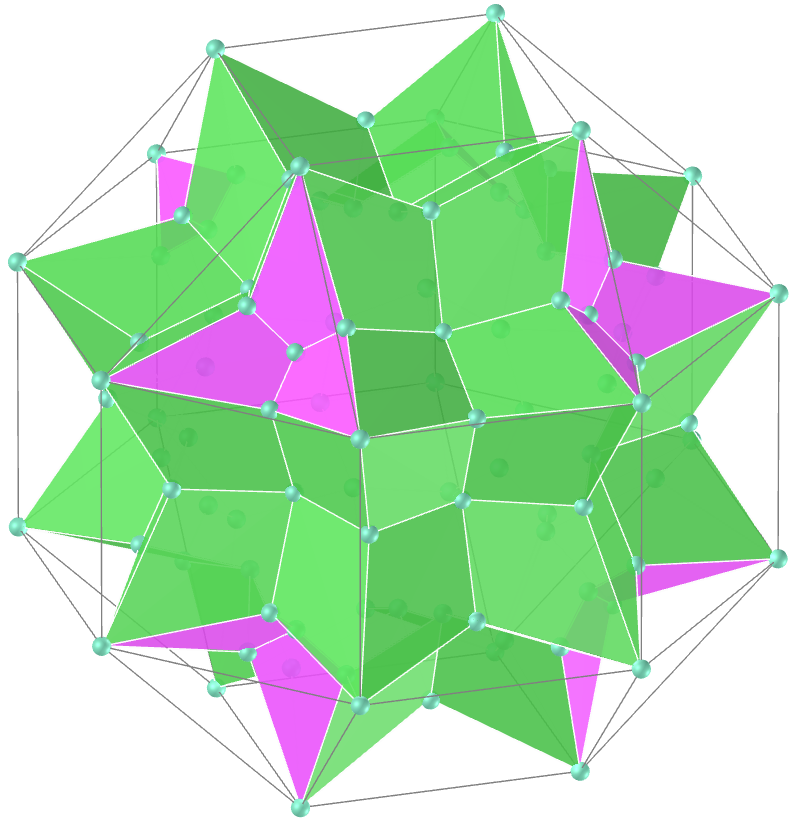
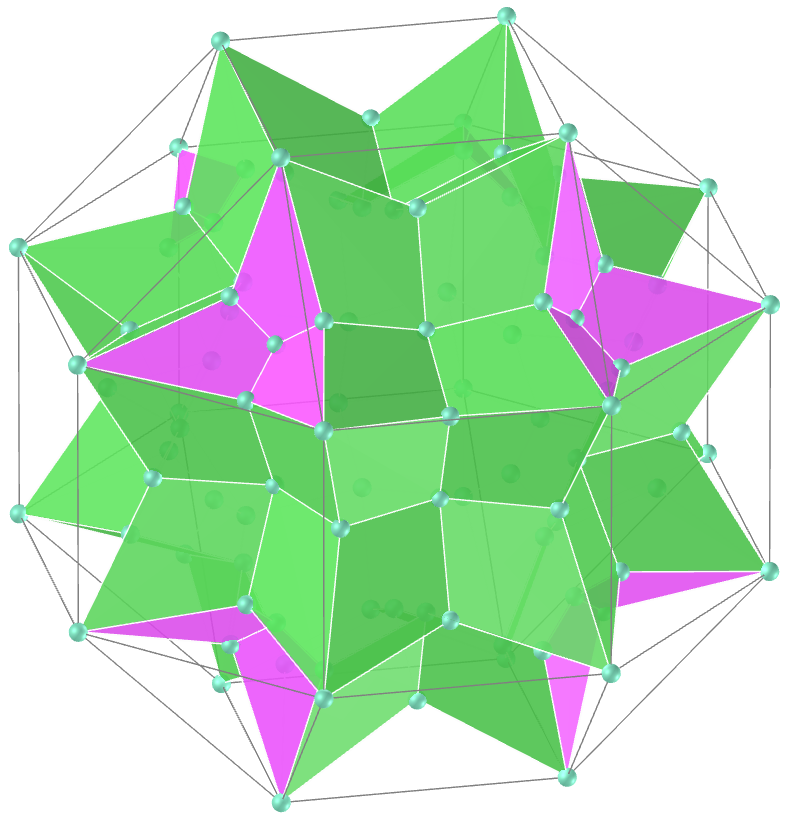
update

diff --git a/kites/vr/Snub_Cube.htm b/kites/vr/Snub_Cube.htm
@@ -57,160 +57,160 @@
 			<a-sphere mixin='esfera' position='0.098648256 -0.33372504 0.795259344'></a-sphere>
 			<a-sphere mixin='esfera' position='0.33372504 0.098648256 0.795259344'></a-sphere>
 			<a-sphere mixin='esfera' position='-0.098648256 0.33372504 0.795259344'></a-sphere>
-			<a-sphere mixin='esfera' position='0 0 0.611412751'></a-sphere>
+			<a-sphere mixin='esfera' position='0 0 0.6098614601'></a-sphere>
 			<a-sphere mixin='esfera' position='0.098648256 -0.33372504 0.795259344'></a-sphere>
 			<a-sphere mixin='esfera' position='0 -0.61381632 0.61381632'></a-sphere>
 			<a-sphere mixin='esfera' position='0.33372504 -0.515168064 0.61381632'></a-sphere>
-			<a-sphere mixin='esfera' position='0 -0.440353996 0.608998995'></a-sphere>
+			<a-sphere mixin='esfera' position='0 -0.4427086634 0.608998995'></a-sphere>
 			<a-sphere mixin='esfera' position='-0.33372504 0.098648256 -0.795259344'></a-sphere>
 			<a-sphere mixin='esfera' position='0.098648256 0.33372504 -0.795259344'></a-sphere>
 			<a-sphere mixin='esfera' position='0.33372504 -0.098648256 -0.795259344'></a-sphere>
 			<a-sphere mixin='esfera' position='-0.098648256 -0.33372504 -0.795259344'></a-sphere>
-			<a-sphere mixin='esfera' position='0 0 -0.611412751'></a-sphere>
+			<a-sphere mixin='esfera' position='0 0 -0.6098614601'></a-sphere>
 			<a-sphere mixin='esfera' position='0.795259344 -0.33372504 -0.098648256'></a-sphere>
 			<a-sphere mixin='esfera' position='0.795259344 0.098648256 -0.33372504'></a-sphere>
 			<a-sphere mixin='esfera' position='0.795259344 0.33372504 0.098648256'></a-sphere>
 			<a-sphere mixin='esfera' position='0.795259344 -0.098648256 0.33372504'></a-sphere>
-			<a-sphere mixin='esfera' position='0.611412751 0 0'></a-sphere>
+			<a-sphere mixin='esfera' position='0.6098614601 0 0'></a-sphere>
 			<a-sphere mixin='esfera' position='-0.795259344 -0.33372504 0.098648256'></a-sphere>
 			<a-sphere mixin='esfera' position='-0.795259344 0.098648256 0.33372504'></a-sphere>
 			<a-sphere mixin='esfera' position='-0.795259344 0.33372504 -0.098648256'></a-sphere>
 			<a-sphere mixin='esfera' position='-0.795259344 -0.098648256 -0.33372504'></a-sphere>
-			<a-sphere mixin='esfera' position='-0.611412751 0 0'></a-sphere>
+			<a-sphere mixin='esfera' position='-0.6098614601 0 0'></a-sphere>
 			<a-sphere mixin='esfera' position='-0.098648256 -0.795259344 0.33372504'></a-sphere>
 			<a-sphere mixin='esfera' position='-0.33372504 -0.795259344 -0.098648256'></a-sphere>
 			<a-sphere mixin='esfera' position='0.098648256 -0.795259344 -0.33372504'></a-sphere>
 			<a-sphere mixin='esfera' position='0.33372504 -0.795259344 0.098648256'></a-sphere>
-			<a-sphere mixin='esfera' position='0 -0.611412751 0'></a-sphere>
+			<a-sphere mixin='esfera' position='0 -0.6098614601 0'></a-sphere>
 			<a-sphere mixin='esfera' position='-0.098648256 0.795259344 -0.33372504'></a-sphere>
 			<a-sphere mixin='esfera' position='-0.33372504 0.795259344 0.098648256'></a-sphere>
 			<a-sphere mixin='esfera' position='0.098648256 0.795259344 0.33372504'></a-sphere>
 			<a-sphere mixin='esfera' position='0.33372504 0.795259344 -0.098648256'></a-sphere>
-			<a-sphere mixin='esfera' position='0 0.611412751 0'></a-sphere>
+			<a-sphere mixin='esfera' position='0 0.6098614601 0'></a-sphere>
 			<a-sphere mixin='esfera' position='0.098648256 0.33372504 -0.795259344'></a-sphere>
 			<a-sphere mixin='esfera' position='0 0.61381632 -0.61381632'></a-sphere>
 			<a-sphere mixin='esfera' position='0.33372504 0.515168064 -0.61381632'></a-sphere>
-			<a-sphere mixin='esfera' position='0.130167555 0.440353996 -0.608998995'></a-sphere>
+			<a-sphere mixin='esfera' position='0.130167555 0.4427086634 -0.608998995'></a-sphere>
 			<a-sphere mixin='esfera' position='-0.098648256 0.33372504 0.795259344'></a-sphere>
 			<a-sphere mixin='esfera' position='0 0.61381632 0.61381632'></a-sphere>
 			<a-sphere mixin='esfera' position='-0.33372504 0.515168064 0.61381632'></a-sphere>
-			<a-sphere mixin='esfera' position='-0.130167555 0.440353996 0.608998995'></a-sphere>
+			<a-sphere mixin='esfera' position='-0.130167555 0.4427086634 0.608998995'></a-sphere>
 			<a-sphere mixin='esfera' position='-0.098648256 -0.33372504 -0.795259344'></a-sphere>
 			<a-sphere mixin='esfera' position='0 -0.61381632 -0.61381632'></a-sphere>
 			<a-sphere mixin='esfera' position='-0.33372504 -0.515168064 -0.61381632'></a-sphere>
-			<a-sphere mixin='esfera' position='-0.130167555 -0.440353996 -0.608998995'></a-sphere>
+			<a-sphere mixin='esfera' position='-0.130167555 -0.4427086634 -0.608998995'></a-sphere>
 			<a-sphere mixin='esfera' position='0.795259344 -0.098648256 0.33372504'></a-sphere>
 			<a-sphere mixin='esfera' position='0.61381632 0 0.61381632'></a-sphere>
 			<a-sphere mixin='esfera' position='0.61381632 -0.33372504 0.515168064'></a-sphere>
-			<a-sphere mixin='esfera' position='0.608998995 -0.130167555 0.440353996'></a-sphere>
+			<a-sphere mixin='esfera' position='0.608998995 -0.130167555 0.4427086634'></a-sphere>
 			<a-sphere mixin='esfera' position='0.795259344 0.098648256 -0.33372504'></a-sphere>
 			<a-sphere mixin='esfera' position='0.61381632 0 -0.61381632'></a-sphere>
 			<a-sphere mixin='esfera' position='0.61381632 0.33372504 -0.515168064'></a-sphere>
-			<a-sphere mixin='esfera' position='0.608998995 0.130167555 -0.440353996'></a-sphere>
+			<a-sphere mixin='esfera' position='0.608998995 0.130167555 -0.4427086634'></a-sphere>
 			<a-sphere mixin='esfera' position='-0.795259344 0.098648256 0.33372504'></a-sphere>
 			<a-sphere mixin='esfera' position='-0.61381632 0 0.61381632'></a-sphere>
 			<a-sphere mixin='esfera' position='-0.61381632 0.33372504 0.515168064'></a-sphere>
-			<a-sphere mixin='esfera' position='-0.608998995 0.130167555 0.440353996'></a-sphere>
+			<a-sphere mixin='esfera' position='-0.608998995 0.130167555 0.4427086634'></a-sphere>
 			<a-sphere mixin='esfera' position='-0.795259344 -0.098648256 -0.33372504'></a-sphere>
 			<a-sphere mixin='esfera' position='-0.61381632 0 -0.61381632'></a-sphere>
 			<a-sphere mixin='esfera' position='-0.61381632 -0.33372504 -0.515168064'></a-sphere>
-			<a-sphere mixin='esfera' position='-0.608998995 -0.130167555 -0.440353996'></a-sphere>
+			<a-sphere mixin='esfera' position='-0.608998995 -0.130167555 -0.4427086634'></a-sphere>
 			<a-sphere mixin='esfera' position='0.33372504 -0.795259344 0.098648256'></a-sphere>
 			<a-sphere mixin='esfera' position='0.61381632 -0.61381632 0'></a-sphere>
 			<a-sphere mixin='esfera' position='0.515168064 -0.61381632 0.33372504'></a-sphere>
-			<a-sphere mixin='esfera' position='0.440353996 -0.608998995 0.130167555'></a-sphere>
+			<a-sphere mixin='esfera' position='0.4427086634 -0.608998995 0.130167555'></a-sphere>
 			<a-sphere mixin='esfera' position='0.33372504 0.795259344 -0.098648256'></a-sphere>
 			<a-sphere mixin='esfera' position='0.61381632 0.61381632 0'></a-sphere>
 			<a-sphere mixin='esfera' position='0.515168064 0.61381632 -0.33372504'></a-sphere>
-			<a-sphere mixin='esfera' position='0.440353996 0.608998995 -0.130167555'></a-sphere>
+			<a-sphere mixin='esfera' position='0.4427086634 0.608998995 -0.130167555'></a-sphere>
 			<a-sphere mixin='esfera' position='-0.33372504 0.795259344 0.098648256'></a-sphere>
 			<a-sphere mixin='esfera' position='-0.61381632 0.61381632 0'></a-sphere>
 			<a-sphere mixin='esfera' position='-0.515168064 0.61381632 0.33372504'></a-sphere>
-			<a-sphere mixin='esfera' position='-0.440353996 0.608998995 0.130167555'></a-sphere>
+			<a-sphere mixin='esfera' position='-0.4427086634 0.608998995 0.130167555'></a-sphere>
 			<a-sphere mixin='esfera' position='-0.33372504 -0.795259344 -0.098648256'></a-sphere>
 			<a-sphere mixin='esfera' position='-0.61381632 -0.61381632 0'></a-sphere>
 			<a-sphere mixin='esfera' position='-0.515168064 -0.61381632 -0.33372504'></a-sphere>
-			<a-sphere mixin='esfera' position='-0.440353996 -0.608998995 -0.130167555'></a-sphere>
+			<a-sphere mixin='esfera' position='-0.4427086634 -0.608998995 -0.130167555'></a-sphere>
 			<a-sphere mixin='esfera' position='0.33372504 0.098648256 0.795259344'></a-sphere>
 			<a-sphere mixin='esfera' position='0.61381632 0 0.61381632'></a-sphere>
 			<a-sphere mixin='esfera' position='0.515168064 0.33372504 0.61381632'></a-sphere>
-			<a-sphere mixin='esfera' position='0.440353996 0.130167555 0.608998995'></a-sphere>
+			<a-sphere mixin='esfera' position='0.4427086634 0.130167555 0.608998995'></a-sphere>
 			<a-sphere mixin='esfera' position='0.33372504 -0.098648256 -0.795259344'></a-sphere>
 			<a-sphere mixin='esfera' position='0.61381632 0 -0.61381632'></a-sphere>
 			<a-sphere mixin='esfera' position='0.515168064 -0.33372504 -0.61381632'></a-sphere>
-			<a-sphere mixin='esfera' position='0.440353996 -0.130167555 -0.608998995'></a-sphere>
+			<a-sphere mixin='esfera' position='0.4427086634 -0.130167555 -0.608998995'></a-sphere>
 			<a-sphere mixin='esfera' position='-0.33372504 -0.098648256 0.795259344'></a-sphere>
 			<a-sphere mixin='esfera' position='-0.61381632 0 0.61381632'></a-sphere>
 			<a-sphere mixin='esfera' position='-0.515168064 -0.33372504 0.61381632'></a-sphere>
-			<a-sphere mixin='esfera' position='-0.440353996 -0.130167555 0.608998995'></a-sphere>
+			<a-sphere mixin='esfera' position='-0.4427086634 -0.130167555 0.608998995'></a-sphere>
 			<a-sphere mixin='esfera' position='-0.33372504 0.098648256 -0.795259344'></a-sphere>
 			<a-sphere mixin='esfera' position='-0.61381632 0 -0.61381632'></a-sphere>
 			<a-sphere mixin='esfera' position='-0.515168064 0.33372504 -0.61381632'></a-sphere>
-			<a-sphere mixin='esfera' position='-0.440353996 0.130167555 -0.608998995'></a-sphere>
+			<a-sphere mixin='esfera' position='-0.4427086634 0.130167555 -0.608998995'></a-sphere>
 			<a-sphere mixin='esfera' position='0.795259344 0.33372504 0.098648256'></a-sphere>
 			<a-sphere mixin='esfera' position='0.61381632 0.61381632 0'></a-sphere>
 			<a-sphere mixin='esfera' position='0.61381632 0.515168064 0.33372504'></a-sphere>
-			<a-sphere mixin='esfera' position='0.608998995 0.440353996 0.130167555'></a-sphere>
+			<a-sphere mixin='esfera' position='0.608998995 0.4427086634 0.130167555'></a-sphere>
 			<a-sphere mixin='esfera' position='0.795259344 -0.33372504 -0.098648256'></a-sphere>
 			<a-sphere mixin='esfera' position='0.61381632 -0.61381632 0'></a-sphere>
 			<a-sphere mixin='esfera' position='0.61381632 -0.515168064 -0.33372504'></a-sphere>
-			<a-sphere mixin='esfera' position='0.608998995 -0.440353996 -0.130167555'></a-sphere>
+			<a-sphere mixin='esfera' position='0.608998995 -0.4427086634 -0.130167555'></a-sphere>
 			<a-sphere mixin='esfera' position='-0.795259344 -0.33372504 0.098648256'></a-sphere>
 			<a-sphere mixin='esfera' position='-0.61381632 -0.61381632 0'></a-sphere>
 			<a-sphere mixin='esfera' position='-0.61381632 -0.515168064 0.33372504'></a-sphere>
-			<a-sphere mixin='esfera' position='-0.608998995 -0.440353996 0.130167555'></a-sphere>
+			<a-sphere mixin='esfera' position='-0.608998995 -0.4427086634 0.130167555'></a-sphere>
 			<a-sphere mixin='esfera' position='-0.795259344 0.33372504 -0.098648256'></a-sphere>
 			<a-sphere mixin='esfera' position='-0.61381632 0.61381632 0'></a-sphere>
 			<a-sphere mixin='esfera' position='-0.61381632 0.515168064 -0.33372504'></a-sphere>
-			<a-sphere mixin='esfera' position='-0.608998995 0.440353996 -0.130167555'></a-sphere>
+			<a-sphere mixin='esfera' position='-0.608998995 0.4427086634 -0.130167555'></a-sphere>
 			<a-sphere mixin='esfera' position='0.098648256 0.795259344 0.33372504'></a-sphere>
 			<a-sphere mixin='esfera' position='0 0.61381632 0.61381632'></a-sphere>
 			<a-sphere mixin='esfera' position='0.33372504 0.61381632 0.515168064'></a-sphere>
-			<a-sphere mixin='esfera' position='0.130167555 0.608998995 0.440353996'></a-sphere>
+			<a-sphere mixin='esfera' position='0.130167555 0.608998995 0.4427086634'></a-sphere>
 			<a-sphere mixin='esfera' position='0.098648256 -0.795259344 -0.33372504'></a-sphere>
 			<a-sphere mixin='esfera' position='0 -0.61381632 -0.61381632'></a-sphere>
 			<a-sphere mixin='esfera' position='0.33372504 -0.61381632 -0.515168064'></a-sphere>
-			<a-sphere mixin='esfera' position='0.130167555 -0.608998995 -0.440353996'></a-sphere>
+			<a-sphere mixin='esfera' position='0.130167555 -0.608998995 -0.4427086634'></a-sphere>
 			<a-sphere mixin='esfera' position='-0.098648256 -0.795259344 0.33372504'></a-sphere>
 			<a-sphere mixin='esfera' position='0 -0.61381632 0.61381632'></a-sphere>
 			<a-sphere mixin='esfera' position='-0.33372504 -0.61381632 0.515168064'></a-sphere>
-			<a-sphere mixin='esfera' position='-0.130167555 -0.608998995 0.440353996'></a-sphere>
+			<a-sphere mixin='esfera' position='-0.130167555 -0.608998995 0.4427086634'></a-sphere>
 			<a-sphere mixin='esfera' position='-0.098648256 0.795259344 -0.33372504'></a-sphere>
 			<a-sphere mixin='esfera' position='0 0.61381632 -0.61381632'></a-sphere>
 			<a-sphere mixin='esfera' position='-0.33372504 0.61381632 -0.515168064'></a-sphere>
-			<a-sphere mixin='esfera' position='-0.130167555 0.608998995 -0.440353996'></a-sphere>
+			<a-sphere mixin='esfera' position='-0.130167555 0.608998995 -0.4427086634'></a-sphere>
 			<a-sphere mixin='esfera' position='0.515168064 -0.61381632 0.33372504'></a-sphere>
 			<a-sphere mixin='esfera' position='0.61381632 -0.33372504 0.515168064'></a-sphere>
 			<a-sphere mixin='esfera' position='0.33372504 -0.515168064 0.61381632'></a-sphere>
-			<a-sphere mixin='esfera' position='0.440353996 -0.440353996 0.440353996'></a-sphere>
+			<a-sphere mixin='esfera' position='0.4427086634 -0.4427086634 0.4427086634'></a-sphere>
 			<a-sphere mixin='esfera' position='0.515168064 0.61381632 -0.33372504'></a-sphere>
 			<a-sphere mixin='esfera' position='0.61381632 0.33372504 -0.515168064'></a-sphere>
 			<a-sphere mixin='esfera' position='0.33372504 0.515168064 -0.61381632'></a-sphere>
-			<a-sphere mixin='esfera' position='0.440353996 0.440353996 -0.440353996'></a-sphere>
+			<a-sphere mixin='esfera' position='0.4427086634 0.4427086634 -0.4427086634'></a-sphere>
 			<a-sphere mixin='esfera' position='-0.515168064 0.61381632 0.33372504'></a-sphere>
 			<a-sphere mixin='esfera' position='-0.61381632 0.33372504 0.515168064'></a-sphere>
 			<a-sphere mixin='esfera' position='-0.33372504 0.515168064 0.61381632'></a-sphere>
-			<a-sphere mixin='esfera' position='-0.440353996 0.440353996 0.440353996'></a-sphere>
+			<a-sphere mixin='esfera' position='-0.4427086634 0.4427086634 0.4427086634'></a-sphere>
 			<a-sphere mixin='esfera' position='-0.515168064 -0.61381632 -0.33372504'></a-sphere>
 			<a-sphere mixin='esfera' position='-0.61381632 -0.33372504 -0.515168064'></a-sphere>
 			<a-sphere mixin='esfera' position='-0.33372504 -0.515168064 -0.61381632'></a-sphere>
-			<a-sphere mixin='esfera' position='-0.440353996 -0.440353996 -0.440353996'></a-sphere>
+			<a-sphere mixin='esfera' position='-0.4427086634 -0.4427086634 -0.4427086634'></a-sphere>
 			<a-sphere mixin='esfera' position='0.515168064 0.33372504 0.61381632'></a-sphere>
 			<a-sphere mixin='esfera' position='0.61381632 0.515168064 0.33372504'></a-sphere>
 			<a-sphere mixin='esfera' position='0.33372504 0.61381632 0.515168064'></a-sphere>
-			<a-sphere mixin='esfera' position='0.440353996 0.440353996 0.440353996'></a-sphere>
+			<a-sphere mixin='esfera' position='0.4427086634 0.4427086634 0.4427086634'></a-sphere>
 			<a-sphere mixin='esfera' position='0.515168064 -0.33372504 -0.61381632'></a-sphere>
 			<a-sphere mixin='esfera' position='0.61381632 -0.515168064 -0.33372504'></a-sphere>
 			<a-sphere mixin='esfera' position='0.33372504 -0.61381632 -0.515168064'></a-sphere>
-			<a-sphere mixin='esfera' position='0.440353996 -0.440353996 -0.440353996'></a-sphere>
+			<a-sphere mixin='esfera' position='0.4427086634 -0.4427086634 -0.4427086634'></a-sphere>
 			<a-sphere mixin='esfera' position='-0.515168064 -0.33372504 0.61381632'></a-sphere>
 			<a-sphere mixin='esfera' position='-0.61381632 -0.515168064 0.33372504'></a-sphere>
 			<a-sphere mixin='esfera' position='-0.33372504 -0.61381632 0.515168064'></a-sphere>
-			<a-sphere mixin='esfera' position='-0.440353996 -0.440353996 0.440353996'></a-sphere>
+			<a-sphere mixin='esfera' position='-0.4427086634 -0.4427086634 0.4427086634'></a-sphere>
 			<a-sphere mixin='esfera' position='-0.515168064 0.33372504 -0.61381632'></a-sphere>
 			<a-sphere mixin='esfera' position='-0.61381632 0.515168064 -0.33372504'></a-sphere>
 			<a-sphere mixin='esfera' position='-0.33372504 0.61381632 -0.515168064'></a-sphere>
-			<a-sphere mixin='esfera' position='-0.440353996 0.440353996 -0.440353996'></a-sphere>
+			<a-sphere mixin='esfera' position='-0.4427086634 0.4427086634 -0.4427086634'></a-sphere>
 		</a-entity>
 		
 		<a-box mixin="piso" class="piso" visible="false" position="0 -1.5 0"></a-box>
